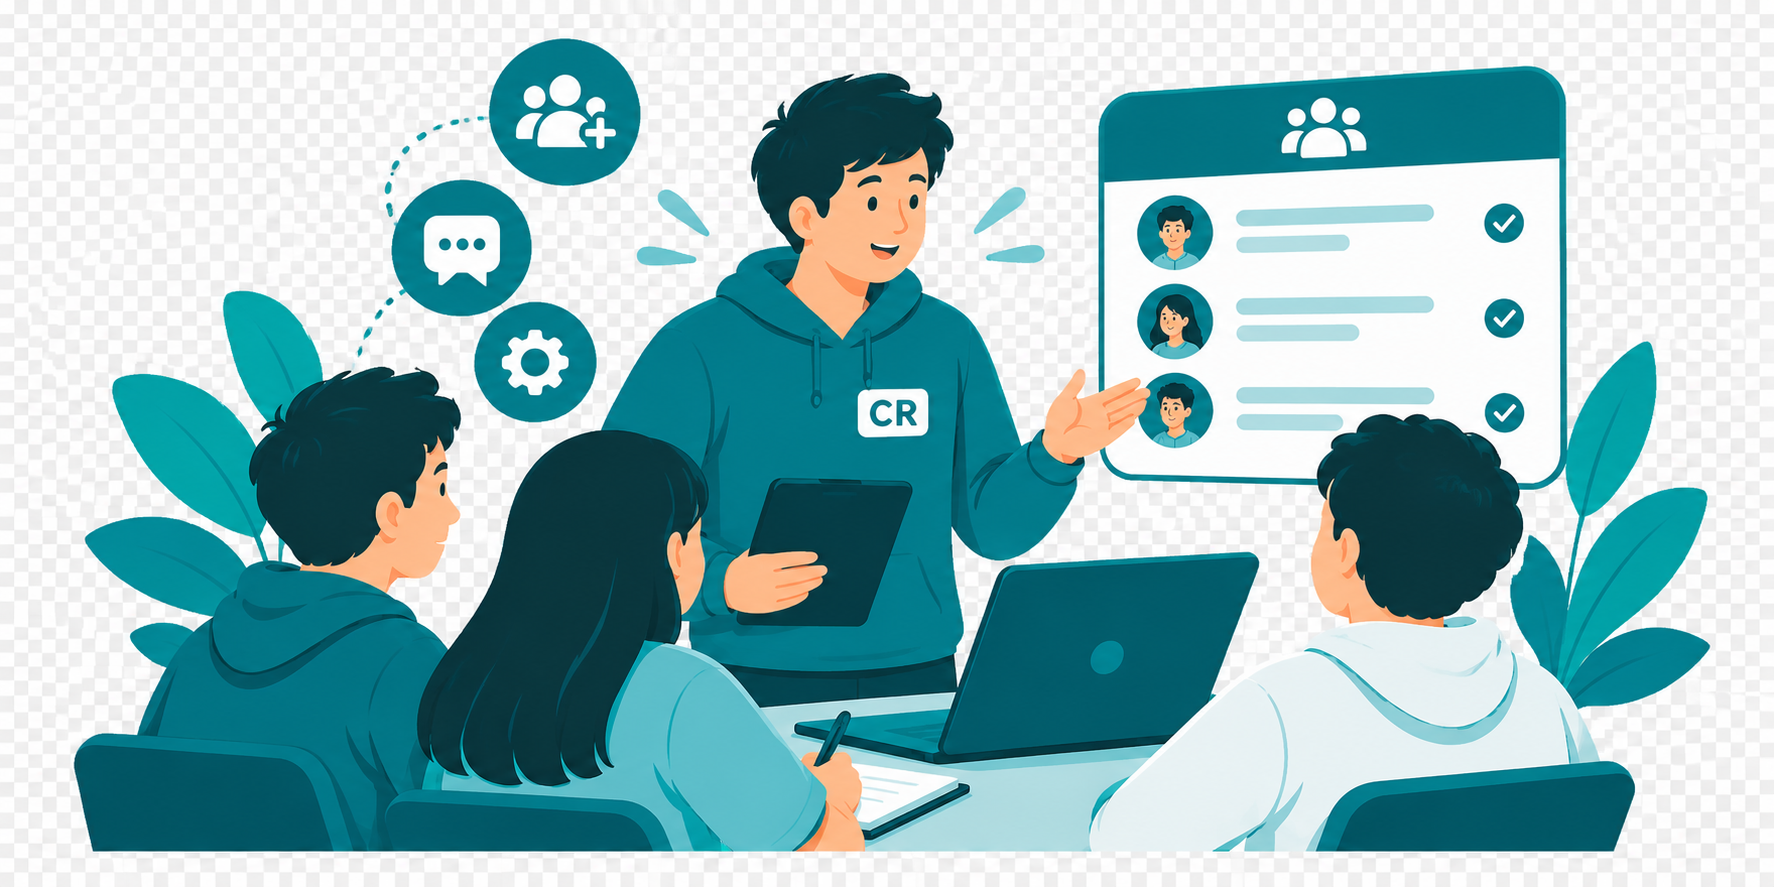
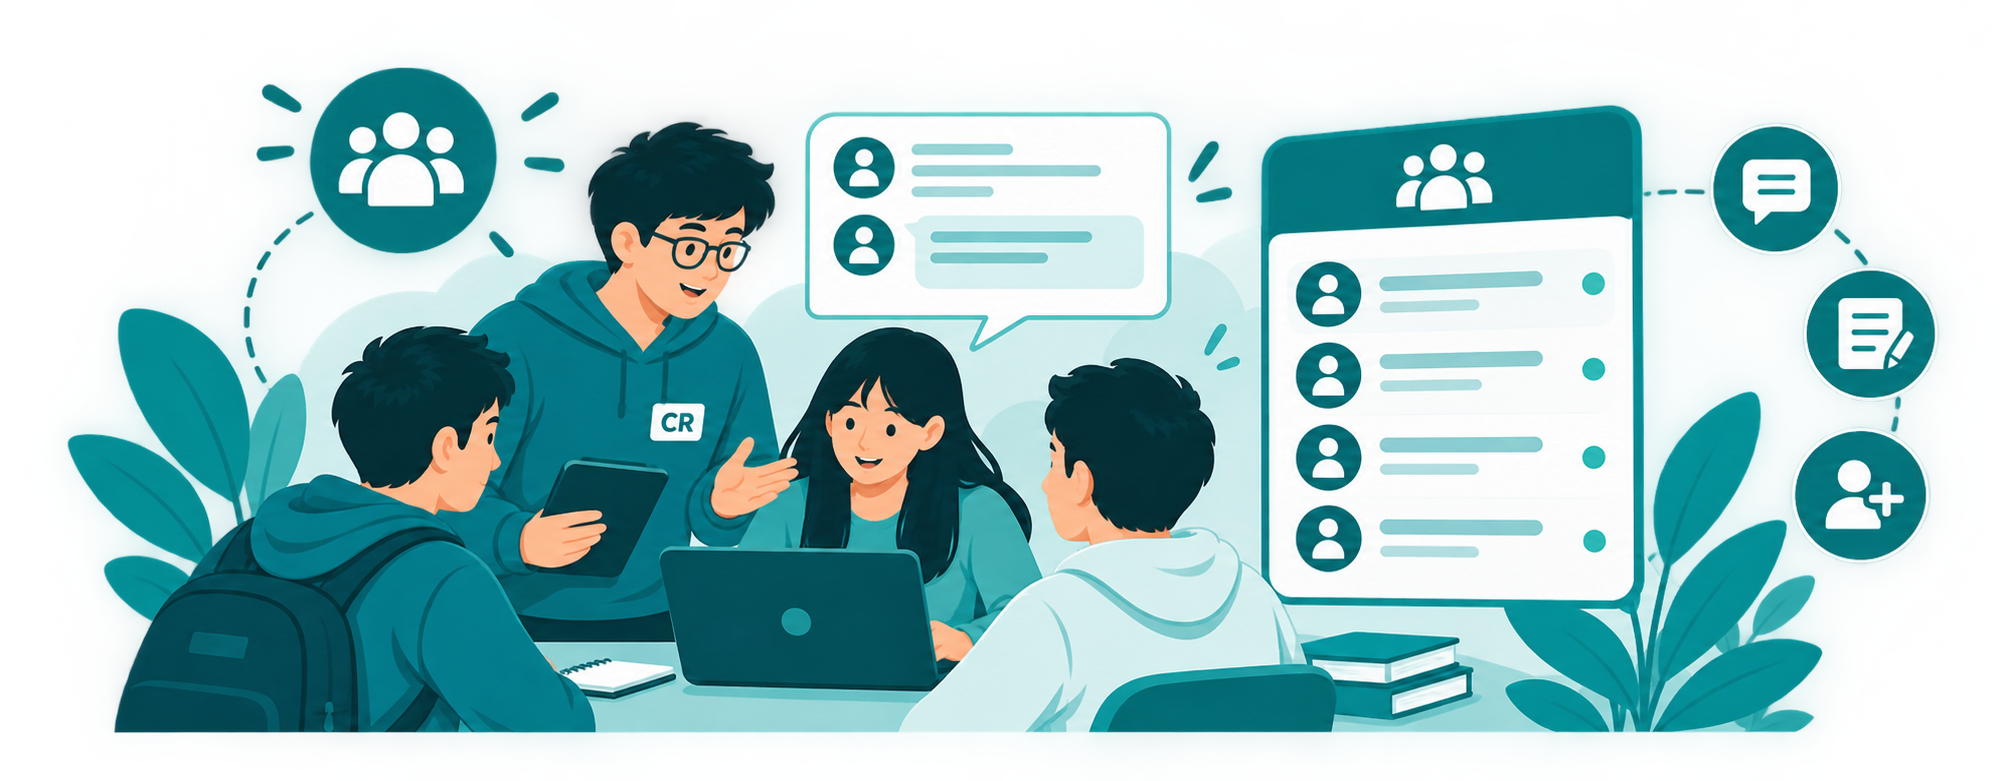
feat: update RoleCard component layout and styles for improved presentation

diff --git a/src/components/main/role-card.tsx b/src/components/main/role-card.tsx
@@ -6,10 +6,9 @@ import { RoleCardProps } from "@/types/how-it-works";
 // Component to display the role-specific benefits card
 export function RoleCard({ card }: RoleCardProps): React.JSX.Element {
   return (
-    <div className="bg-card border border-border/70 rounded-3xl grid grid-cols-1 md:grid-cols-2 min-h-[350px] md:min-h-[400px] overflow-hidden group items-stretch relative">
-      
+    <div className="bg-card border border-border/70 rounded-3xl grid grid-cols-1 md:grid-cols-2 min-h-87.5 overflow-hidden items-center">
       {/* Content */}
-      <div className="flex flex-col p-8 md:p-10 justify-center z-10">
+      <div className="flex flex-col p-8 justify-center z-10">
         <span className="text-[10px] font-bold tracking-widest text-primary uppercase mb-2">
           {card.tag}
         </span>
@@ -25,14 +24,13 @@ export function RoleCard({ card }: RoleCardProps): React.JSX.Element {
           ))}
         </ul>
       </div>
-
-      {/* Image Container */}
-      <div className="relative w-full h-62.5 md:h-full flex items-end justify-end">
+      {/* Image Container - Full Bleed */}
+      <div className="relative w-full h-50 flex justify-center items-center overflow-hidden">
         <Image
           src={card.image}
           alt={card.alt}
           fill
-          className="object-cover md:object-contain object-bottom md:object-bottom-right scale-100 md:scale-125 md:origin-bottom-right group-hover:scale-105 md:group-hover:scale-150 transition-transform duration-700"
+          className="object-bottom-right"
         />
       </div>
       
